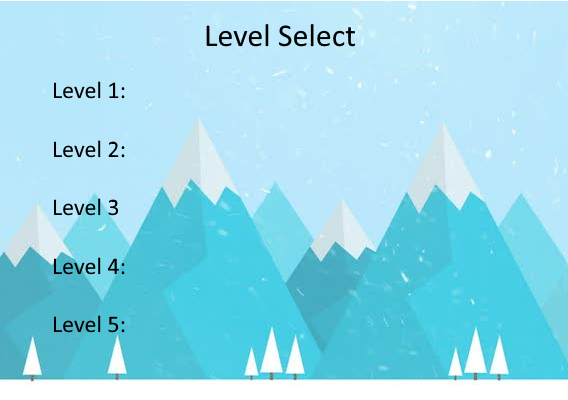
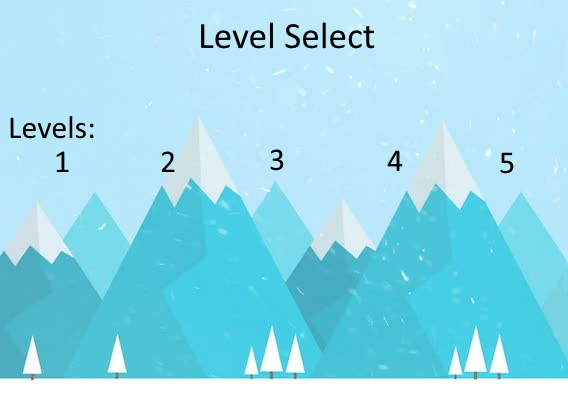
LevelMenu Beautify

diff --git a/SkiGame/LevelMenu.java b/SkiGame/LevelMenu.java
@@ -10,7 +10,7 @@ public class LevelMenu extends World
 {
     private final int LEVEL_NUMBER = 5;
     private LevelButton[] button = new LevelButton[LEVEL_NUMBER];
-    
+
     /**
      * Constructor for objects of class MainMenu.
      * 
@@ -18,11 +18,20 @@ public class LevelMenu extends World
     public LevelMenu()
     {    
         // Create a new world with 600x400 cells with a cell size of 1x1 pixels.
-        super(600, 400, 1); 
+        super(568, 400, 1); 
         for (int i = 0; i < LEVEL_NUMBER; i++)
         {
             button[i] = new LevelButton(i + 1);
             addObject(button[i], i * (getWidth() / LEVEL_NUMBER) + 50, 200);
         }
+        prepare();
+    }
+
+    /**
+     * Prepare the world for the start of the program.
+     * That is: create the initial objects and add them to the world.
+     */
+    private void prepare()
+    {
     }
 }

diff --git a/SkiGame/SkierBuild.java b/SkiGame/SkierBuild.java
@@ -6,7 +6,7 @@ import greenfoot.*;  // (World, Actor, GreenfootImage, Greenfoot and MouseInfo)
  * @author (your name) 
  * @version (a version number or a date)
  */
-public class SkierBuild extends ScrollingActor
+public class SkierBuild extends ScrollingActor implements Gravity
 {
     /**
      * Act - do whatever the Hiker wants to do. This method is called whenever
@@ -20,10 +20,17 @@ public class SkierBuild extends ScrollingActor
         handleKeyPresses();
         boundedMove();
         
-        
+          
+    }
+    public void checkGravity(){
+    
+    }
+    public boolean objectIsBelow(){
+        return true;
+    }
+    public void fall(){
         
     }
-
     private void handleKeyPresses() {
         handleArrowKey("left", -SPEED);
         handleArrowKey("right", SPEED);

diff --git a/SkiGame/Sand.java b/SkiGame/Sand.java
@@ -1,0 +1,19 @@
+import greenfoot.*;  // (World, Actor, GreenfootImage, Greenfoot and MouseInfo)
+
+/**
+ * Write a description of class Sand here.
+ * 
+ * @author (your name) 
+ * @version (a version number or a date)
+ */
+public class Sand extends Actor
+{
+    /**
+     * Act - do whatever the Sand wants to do. This method is called whenever
+     * the 'Act' or 'Run' button gets pressed in the environment.
+     */
+    public void act() 
+    {
+        // Add your action code here.
+    }    
+}
